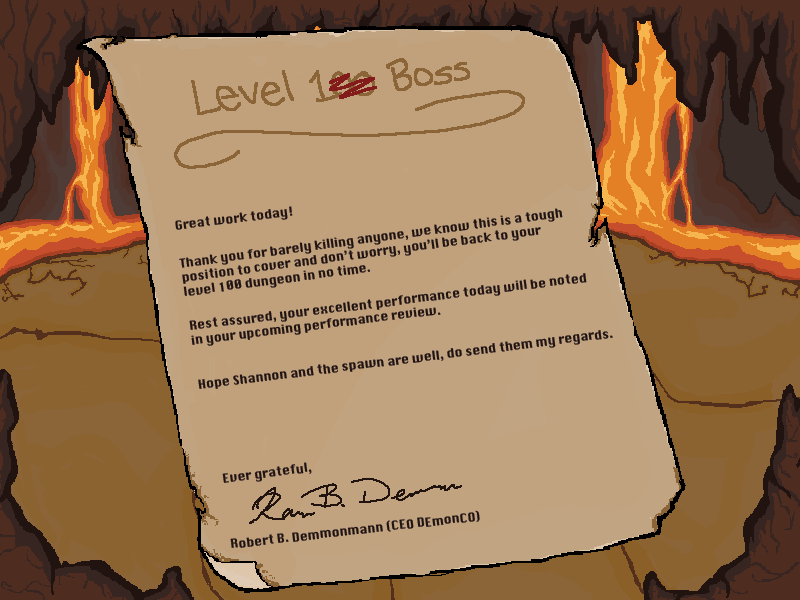
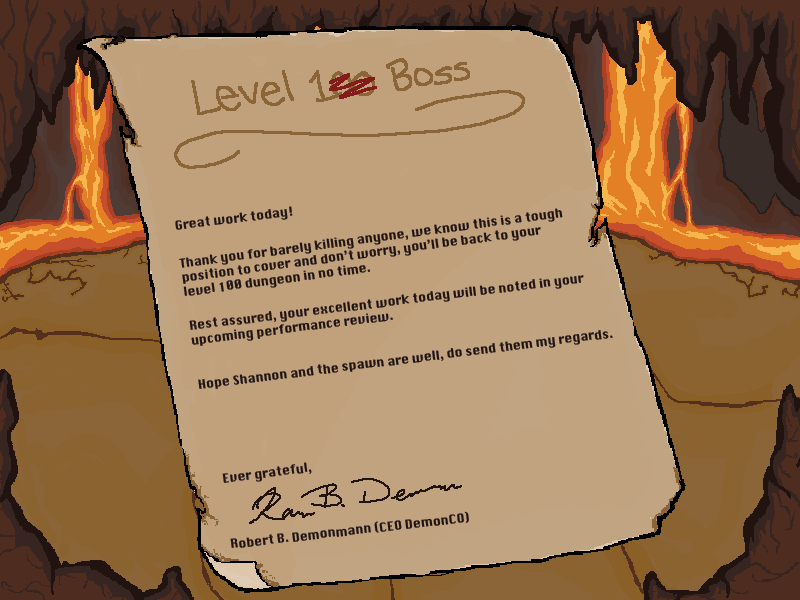
Olivia's assest (#28)
* levelup fixed

* Text for inbetwen levels

* New knight and backgrounds

* Menu and end letter

* Logo

* logos

* Menus with cave background

* next button, and backgrounds updated

* stabbing

* updated main menu and end letter

* Lava sprite and fixed menu pages

* Text with !

* Use updated reminder text images

Changed region(s): [[0.4062, 0.45, 0.75, 0.54], [0.4062, 0.84, 0.5938, 0.9], [0.25, 0.54, 0.4062, 0.57]]

diff --git a/src/Scenes/PreloaderScene.js b/src/Scenes/PreloaderScene.js
@@ -108,9 +108,9 @@ export default class PreloaderScene extends Phaser.Scene {
     this.load.image('powerBar', 'assets/powerbar.png');
     this.load.image('powerBarFrame', 'assets/powerbarframe.png');
 
-    this.load.image('goodWorkText', 'assets/keepitup.png');
+    this.load.image('goodWorkText', 'assets/keepitup2.png');
     this.load.image('adventureresApproachText', 'assets/AdventurersApproach.png');
-    this.load.image('dontKillText', 'assets/dontkillheroes.png');
+    this.load.image('dontKillText', 'assets/dontkillheroes2.png');
 
     this.load.image('backButtonUp', 'assets/BackButtonUp.png');
     this.load.image('backButtonDown', 'assets/BackButtonDown.png');
